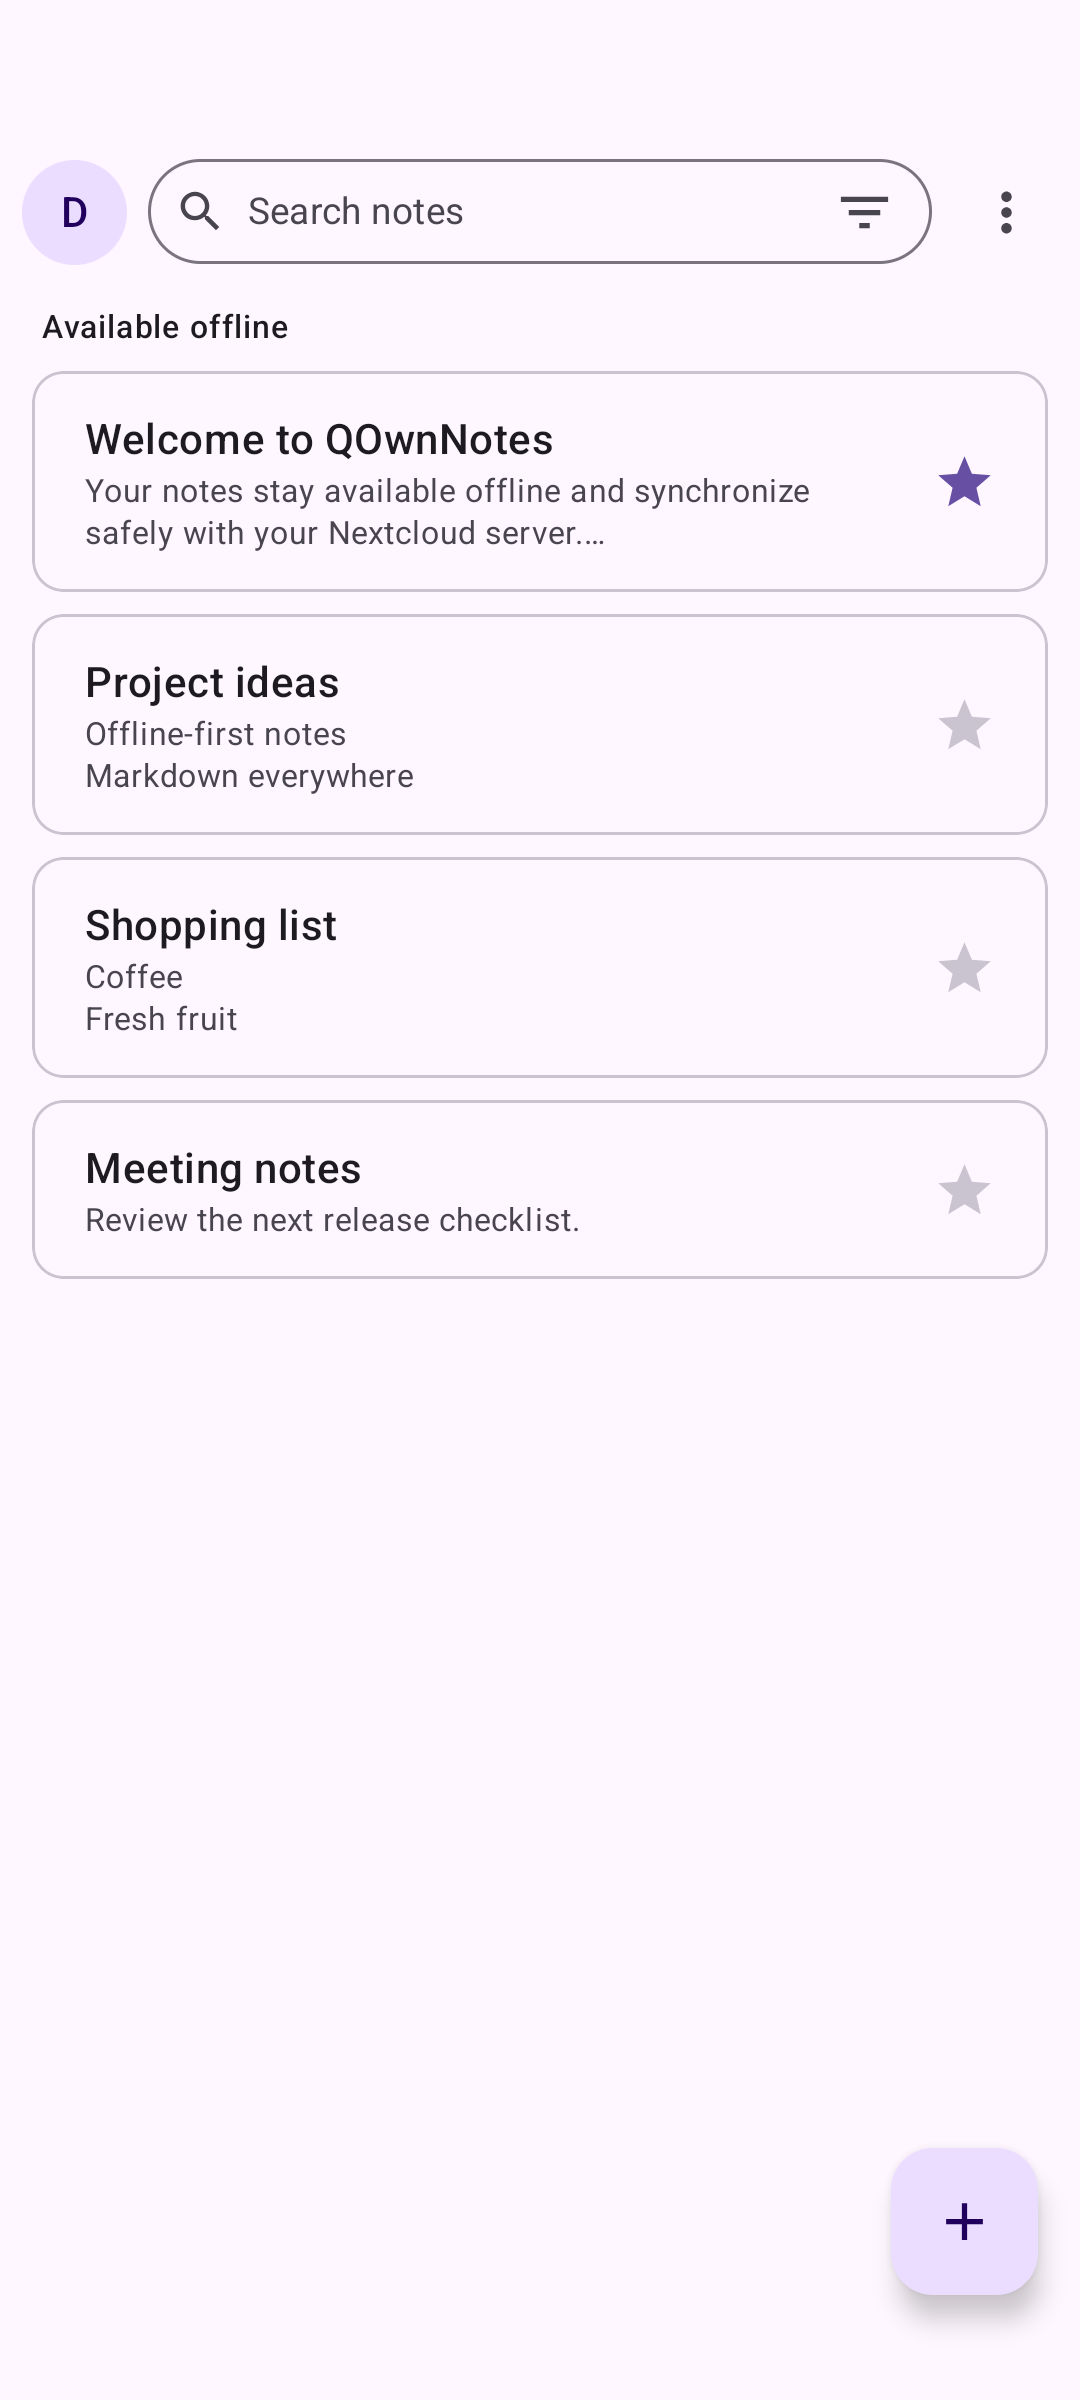
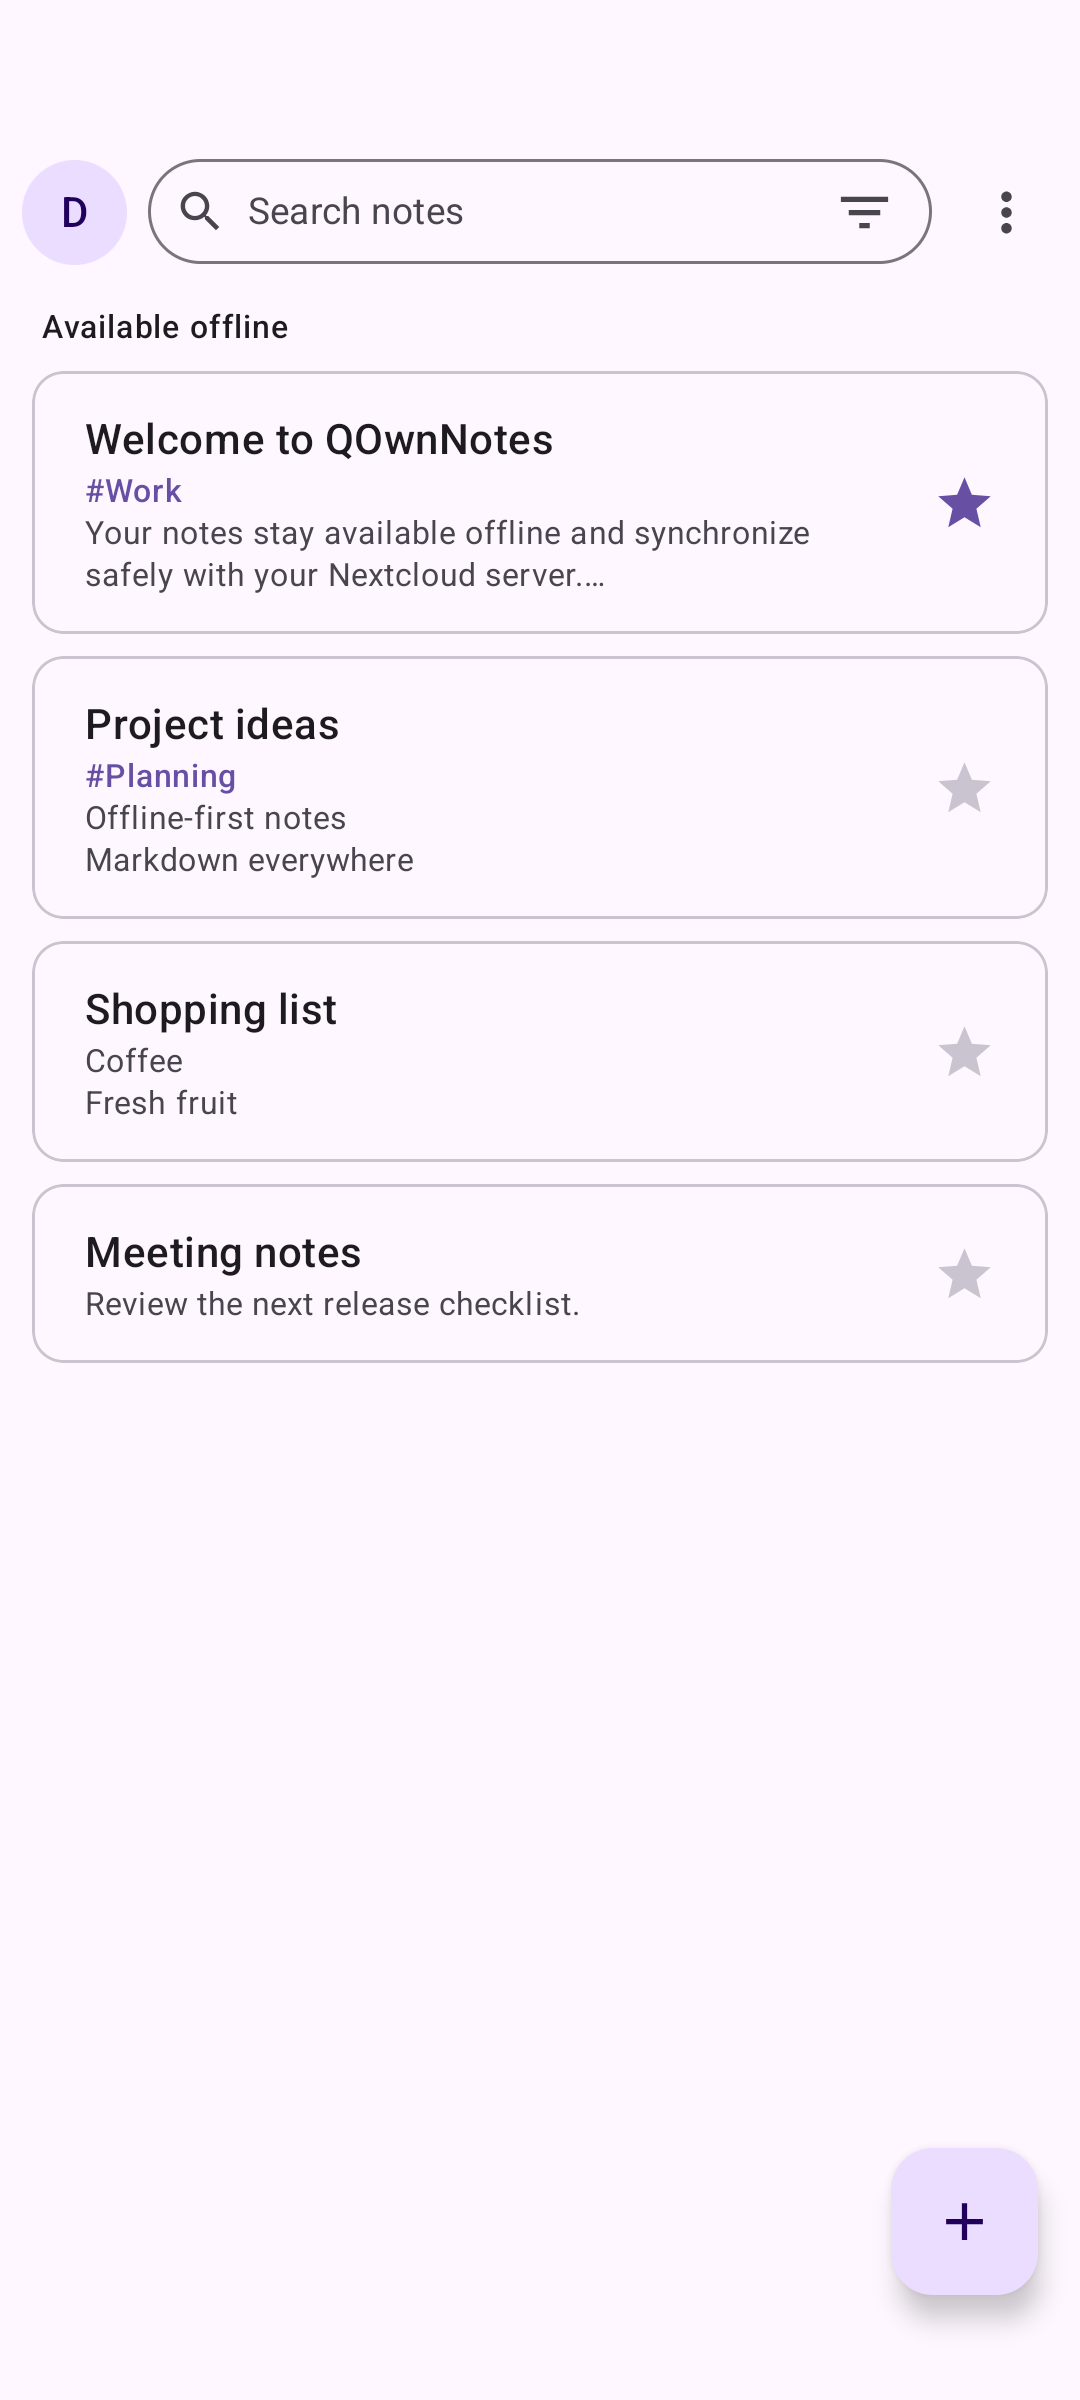
chore: showcase distinguishing dialogs in store screenshots

diff --git a/app/src/androidTest/kotlin/org/qownnotes/mobile/FdroidScreenshotTest.kt b/app/src/androidTest/kotlin/org/qownnotes/mobile/FdroidScreenshotTest.kt
@@ -1,5 +1,6 @@
 package org.qownnotes.mobile
 
+import android.database.sqlite.SQLiteDatabase
 import android.graphics.Bitmap
 import android.widget.TextView
 import androidx.compose.ui.test.junit4.createAndroidComposeRule
@@ -7,6 +8,8 @@ import androidx.compose.ui.test.onAllNodesWithTag
 import androidx.compose.ui.test.onNodeWithTag
 import androidx.compose.ui.test.onNodeWithText
 import androidx.compose.ui.test.performClick
+import androidx.compose.ui.test.performScrollTo
+import androidx.compose.ui.test.performTextReplacement
 import androidx.test.espresso.Espresso.onView
 import androidx.test.espresso.action.ViewActions.captureToBitmap
 import androidx.test.espresso.action.ViewActions.closeSoftKeyboard
@@ -15,13 +18,20 @@ import androidx.test.espresso.matcher.ViewMatchers.withId
 import androidx.test.ext.junit.runners.AndroidJUnit4
 import androidx.test.platform.io.PlatformTestStorageRegistry
 import com.nextcloud.android.sso.model.SingleSignOnAccount
+import java.io.File
 import kotlinx.coroutines.runBlocking
 import org.junit.Before
 import org.junit.Rule
 import org.junit.Test
 import org.junit.runner.RunWith
+import org.qownnotes.mobile.core.DeckBoard
+import org.qownnotes.mobile.core.DeckCardDetails
+import org.qownnotes.mobile.core.DeckStack
+import org.qownnotes.mobile.core.NoteShare
 import org.qownnotes.mobile.core.PullResult
 import org.qownnotes.mobile.core.RemoteNote
+import org.qownnotes.mobile.core.RemoteNoteVersion
+import org.qownnotes.mobile.core.TrashedNote
 
 @RunWith(AndroidJUnit4::class)
 class FdroidScreenshotTest {
@@ -52,6 +62,59 @@ class FdroidScreenshotTest {
                 "https://cloud.example",
                 "nextcloud"
             )
+        application.fakeBackend.tagFile = desktopTagFile()
+        application.fakeBackend.deckBoards = listOf(
+            DeckBoard(2, "QOwnNotes project", listOf(DeckStack(11, "Ideas"), DeckStack(12, "Done")))
+        )
+        application.fakeBackend.existingDeckCards[42] = DeckCardDetails(
+            42, 2, 11, "Plan the next release", "Review ideas from our Markdown notes.",
+            null, "demo", 7, "plain", false, editable = true
+        )
+        application.fakeBackend.existingDeckCards[43] = DeckCardDetails(
+            43, 2, 11, "Improve desktop integration", "Keep notes and tags working together.",
+            null, "demo", 7, "plain", false, editable = true
+        )
+        application.fakeBackend.noteVersions = listOf(
+            RemoteNoteVersion(
+                3,
+                "November 11, 2026, 14:30",
+                "# Welcome to QOwnNotes\n\nKeep notes offline.\nReview the release offline."
+            ),
+            RemoteNoteVersion(
+                2,
+                "November 10, 2026, 09:15",
+                "# Welcome to QOwnNotes\n\nYour Markdown notes stay available offline."
+            ),
+            RemoteNoteVersion(
+                1,
+                "November 9, 2026, 16:00",
+                "# Welcome to QOwnNotes\n\nA first draft."
+            )
+        )
+        application.fakeBackend.trash = listOf(
+            TrashedNote(
+                "Release checklist",
+                "Release checklist.md",
+                3,
+                "November 11, 2026",
+                "# Release checklist\n\n- [x] Review changes\n- [ ] Publish the release",
+                "/Notes/Release checklist.md"
+            ),
+            TrashedNote(
+                "Old project ideas",
+                "Old project ideas.md",
+                2,
+                "November 10, 2026",
+                "# Old project ideas\n\nIdeas are never lost: restore this note from the trash.",
+                "/Notes/Old project ideas.md"
+            )
+        )
+        application.fakeBackend.noteShares[101] = NoteShare(
+            "7",
+            "https://cloud.example/s/qownnotes-demo",
+            1,
+            true
+        )
         application.fakeAccountImporter.enqueue(account)
         application.fakeBackend.enqueue(
             account,
@@ -92,6 +155,8 @@ class FdroidScreenshotTest {
         composeRule.onNodeWithTag("add-account").performClick()
         composeRule.waitForTag("note-list")
         composeRule.waitForText("Shopping list")
+        composeRule.waitForText("#Work")
+        composeRule.waitForText("#Planning")
         capture("1.png")
 
         composeRule.onNodeWithText("Welcome to QOwnNotes").performClick()
@@ -106,9 +171,107 @@ class FdroidScreenshotTest {
         onView(withId(R.id.markdown_editor)).perform(closeSoftKeyboard())
         composeRule.waitForIdle()
         capture("3.png")
+
+        composeRule.waitForTag("create-deck-card-link")
+        composeRule.onNodeWithTag("create-deck-card-link").performScrollTo().performClick()
+        composeRule.waitForTag("deck-card-target")
+        composeRule.onNodeWithTag("deck-card-title").performTextReplacement("Plan the next release")
+        composeRule.onNodeWithTag(
+            "deck-card-description"
+        ).performTextReplacement("Turn an idea from this note into a task.")
+        hideKeyboard()
+        capture("7.png")
+        composeRule.onNodeWithTag("cancel-deck-card").performClick()
+        composeRule.onNodeWithTag("finish-editing").performClick()
+        composeRule.waitForTag("markdown-view")
+
+        noteAction("browse-note-deck-cards")
+        composeRule.waitForTag("deck-browser-card-42")
+        capture("5.png")
+        composeRule.onNodeWithTag("deck-browser-card-42").performClick()
+        composeRule.waitForTag("deck-edit-title")
+        capture("6.png")
+        composeRule.onNodeWithTag("deck-edit-close").performClick()
+        composeRule.onNodeWithTag("deck-browser-close").performClick()
+
+        noteAction("note-versions")
+        composeRule.waitForTag("note-version-3")
+        composeRule.onNodeWithTag("note-version-search").performTextReplacement("offline")
+        composeRule.waitForTag("note-version-search-summary")
+        hideKeyboard()
+        capture("9.png")
+        composeRule.onNodeWithText("Close").performClick()
+
+        noteAction("edit-note-tags")
+        composeRule.waitForTag("note-tag-option-Work")
+        capture("10.png")
+        composeRule.onNodeWithTag("close-note-tags").performClick()
+
+        noteAction("share-note")
+        composeRule.waitForTag("note-share-url")
+        capture("11.png")
+        composeRule.onNodeWithTag("note-share-done").performClick()
+
+        composeRule.onNodeWithTag("back-to-note-list").performClick()
+        composeRule.waitForTag("note-list-menu")
+        composeRule.onNodeWithTag("note-list-menu").performClick()
+        composeRule.waitForTag("remote-trash")
+        composeRule.onNodeWithTag("remote-trash").performClick()
+        composeRule.waitForTag("trashed-note-3")
+        capture("8.png")
+    }
+
+    private fun noteAction(tag: String) {
+        composeRule.waitForTag("note-menu")
+        composeRule.onNodeWithTag("note-menu").performClick()
+        composeRule.waitForTag(tag)
+        composeRule.onNodeWithTag(tag).performClick()
+    }
+
+    private fun hideKeyboard() {
+        onView(isRoot()).perform(closeSoftKeyboard())
+        composeRule.waitForIdle()
+    }
+
+    private fun desktopTagFile(): ByteArray {
+        val file = File(composeRule.activity.cacheDir, "screenshot-notes.sqlite")
+        file.delete()
+        val params = SQLiteDatabase.OpenParams.Builder()
+            .setOpenFlags(
+                SQLiteDatabase.CREATE_IF_NECESSARY or SQLiteDatabase.NO_LOCALIZED_COLLATORS
+            )
+            .setJournalMode("DELETE")
+            .build()
+        try {
+            SQLiteDatabase.openDatabase(file, params).use { database ->
+                listOf(
+                    "CREATE TABLE appData (name VARCHAR(255) PRIMARY KEY, value VARCHAR(255))",
+                    """CREATE TABLE tag (id INTEGER PRIMARY KEY, name VARCHAR(255) COLLATE NOCASE,
+                        priority INTEGER DEFAULT 0, created DATETIME DEFAULT current_timestamp,
+                        parent_id INTEGER DEFAULT 0, color VARCHAR(20), dark_color VARCHAR(20),
+                        updated DATETIME DEFAULT current_timestamp)""",
+                    "CREATE UNIQUE INDEX idxUniqueTag ON tag (name, parent_id)",
+                    """CREATE TABLE noteTagLink (id INTEGER PRIMARY KEY, tag_id INTEGER,
+                        note_file_name VARCHAR(255) DEFAULT '', note_sub_folder_path TEXT DEFAULT '',
+                        created DATETIME DEFAULT current_timestamp, stale_date DATETIME DEFAULT NULL)""",
+                    """CREATE UNIQUE INDEX idxUniqueTagNoteLink
+                        ON noteTagLink (tag_id, note_file_name, note_sub_folder_path)""",
+                    "INSERT INTO appData (name, value) VALUES ('database_version', '16')",
+                    "INSERT INTO tag (id, name) VALUES (1, 'Work')",
+                    "INSERT INTO tag (id, name) VALUES (2, 'Personal')",
+                    "INSERT INTO tag (id, name, parent_id) VALUES (3, 'Planning', 1)",
+                    "INSERT INTO noteTagLink (tag_id, note_file_name) VALUES (1, 'Welcome to QOwnNotes')",
+                    "INSERT INTO noteTagLink (tag_id, note_file_name) VALUES (3, 'Project ideas')"
+                ).forEach(database::execSQL)
+            }
+            return file.readBytes()
+        } finally {
+            file.delete()
+        }
     }
 
     private fun capture(name: String) {
+        composeRule.waitForIdle()
         onView(isRoot()).perform(
             captureToBitmap { bitmap ->
                 PlatformTestStorageRegistry.getInstance()

diff --git a/README.md b/README.md
@@ -62,6 +62,14 @@ the same device. See [`CHANGELOG.md`](CHANGELOG.md) for release details.
 | --- | --- | --- | --- |
 | ![Note list](fastlane/metadata/android/en-US/images/phoneScreenshots/1.png) | ![Note view](fastlane/metadata/android/en-US/images/phoneScreenshots/2.png) | ![Note edit](fastlane/metadata/android/en-US/images/phoneScreenshots/3.png) | ![Setup with a Nextcloud account or a local folder](fastlane/metadata/android/en-US/images/phoneScreenshots/4.png) |
 
+| Deck cards | Edit Deck card | Create Deck card | Note trash |
+| --- | --- | --- | --- |
+| ![Browse Nextcloud Deck cards](fastlane/metadata/android/en-US/images/phoneScreenshots/5.png) | ![Edit a Nextcloud Deck card](fastlane/metadata/android/en-US/images/phoneScreenshots/6.png) | ![Create a Deck card and link it into a note](fastlane/metadata/android/en-US/images/phoneScreenshots/7.png) | ![Browse and restore trashed notes](fastlane/metadata/android/en-US/images/phoneScreenshots/8.png) |
+
+| Note versions | Desktop-compatible tags | Note sharing |
+| --- | --- | --- |
+| ![Search and restore note versions](fastlane/metadata/android/en-US/images/phoneScreenshots/9.png) | ![Assign QOwnNotes desktop tags](fastlane/metadata/android/en-US/images/phoneScreenshots/10.png) | ![Manage a password-protected Nextcloud share](fastlane/metadata/android/en-US/images/phoneScreenshots/11.png) |
+
 ## Nextcloud Account Setup
 
 Install the Nextcloud Files Android app, sign in to the desired server there,
@@ -481,7 +489,8 @@ Each stable release must include a store changelog at
 the file exists and is no longer than F-Droid's 500-character limit. Store descriptions and images
 are maintained under `fastlane/metadata/android/en-US/`.
 
-Generate deterministic list, rendered-note, and editor screenshots from fixed test data on a
+Generate deterministic list, rendered-note, editor, Nextcloud/local-folder setup, Deck browser,
+Deck editor and creation, trash, version search, desktop tag, and sharing screenshots from fixed test data on a
 connected emulator or device with:
 
 ```sh

diff --git a/mobile-app-plan.md b/mobile-app-plan.md
@@ -26,7 +26,9 @@ Implemented in the initial Phase 1 foundation:
   release-build verification before stable GitHub publication. Official F-Droid publishing remains
   controlled by its independent build infrastructure and tag-based update checks.
 - Deterministic F-Droid and README screenshots generated by a focused instrumentation test with
-  fixed fake account and note data, plus release-time APK signature-copy verification for
+  fixed fake account, note, Deck, archive, desktop tag, and sharing data. The gallery covers the
+  Nextcloud/local-folder choice and distinguishing dialogs as well as reading and editing.
+  Release-time APK signature-copy verification supports
   reproducible F-Droid publication.
 - Releases from `26.10.10` use QOwnNotes desktop-style calendar versions (`YY.M.N`) with an unpadded
   month and a zero-based monthly release counter, independent of desktop's counter. Android version

diff --git a/docs/releasing.md b/docs/releasing.md
@@ -59,6 +59,13 @@ see in the store listing. Deterministic screenshots can be regenerated on a conn
 devenv shell -- just update-fdroid-screenshots
 ```
 
+The capture includes the note list, preview, editor, Nextcloud/local-folder setup, Deck browser,
+card editing and creation, trash restoration, version search, desktop-compatible tags, and sharing.
+Review all eleven images in `fastlane/metadata/android/en-US/images/phoneScreenshots/`; the same
+files appear in the README. Commit them before tagging the release. F-Droid imports Fastlane
+metadata from the latest release it processes, not from an untagged branch; screenshots do not
+belong in the official `fdroiddata` repository and need no recipe change.
+
 ## 3. Verify The Release Candidate
 
 Prepare the release on a normal branch and review the complete diff. Confirm that no credentials,

diff --git a/CHANGELOG.md b/CHANGELOG.md
@@ -8,6 +8,12 @@ zero-based increasing release counter within the month. See [the release guide](
 
 ## [Unreleased]
 
+### Changed
+
+- Expand the F-Droid and README screenshot gallery to showcase Nextcloud Deck browsing, editing
+  and card creation, note trash, version search and restoration, desktop-compatible tags, and
+  password-protected sharing alongside Nextcloud and local-folder setup.
+
 ## [26.11.1] - 2026-11-12
 
 ### Added
